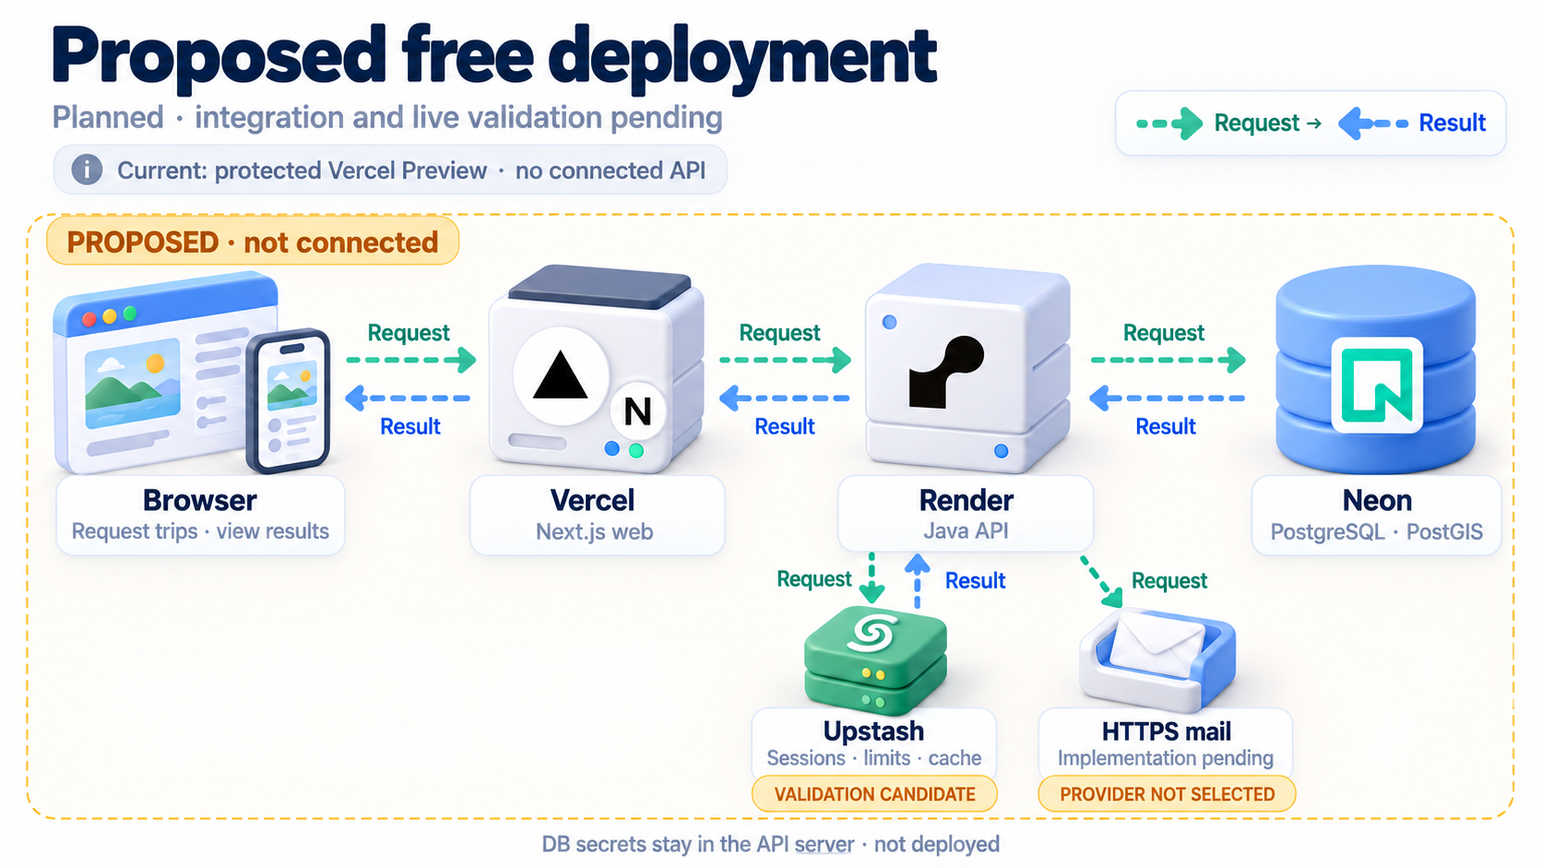
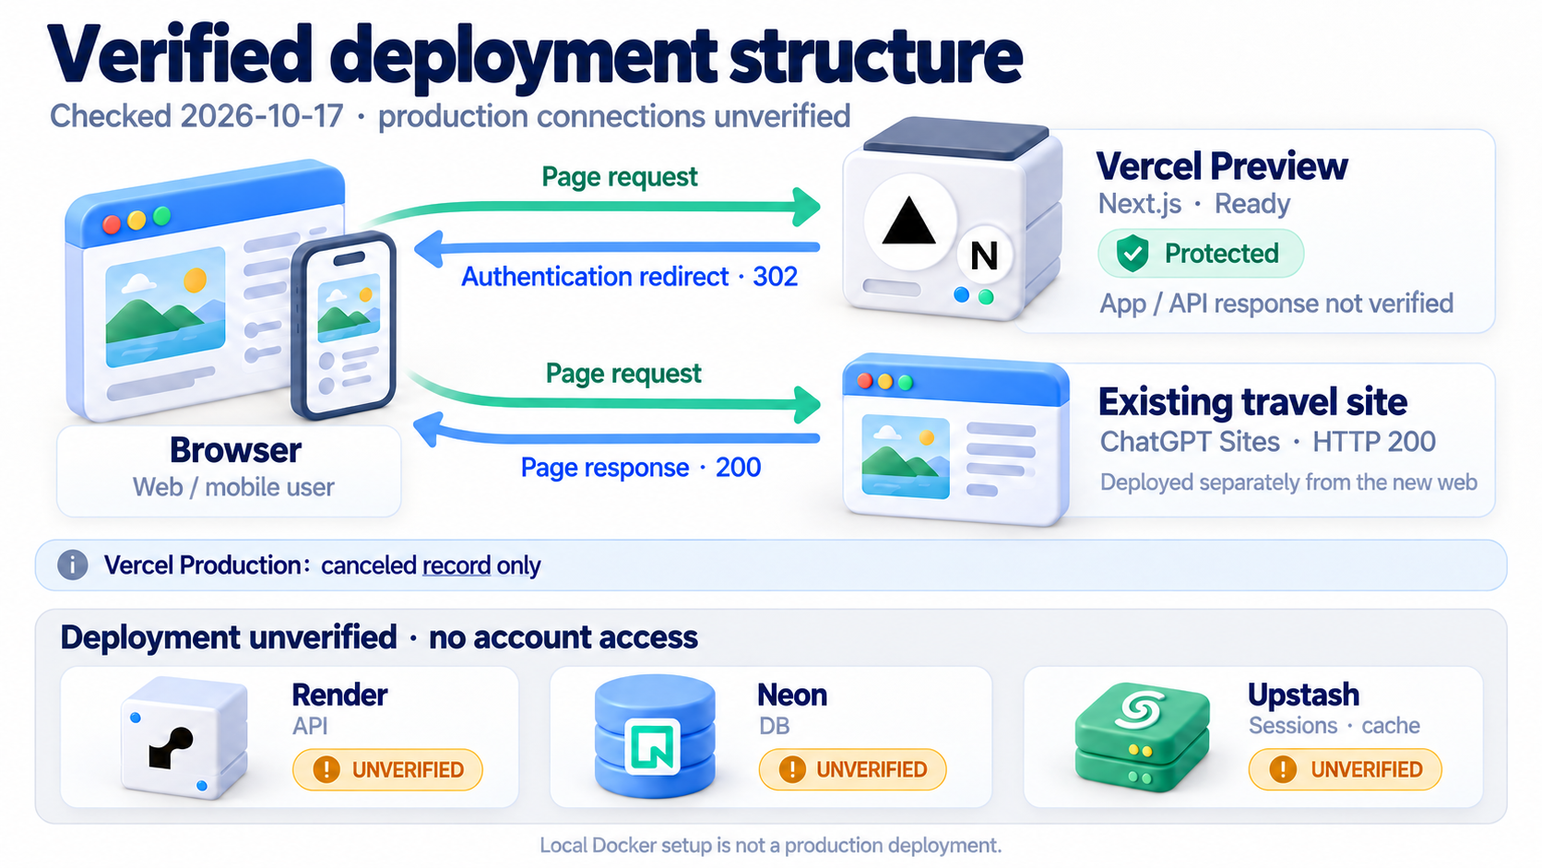
docs: replace deployment proposal with verified current inventory

diff --git a/docs/architecture/3d-diagrams.md b/docs/architecture/3d-diagrams.md
@@ -1,15 +1,15 @@
 # 3D 구성도 근거와 원본
 
-2026-10-17, develop `aca775428281b4b7d7f0c3e581e93ca4c25c599f` 기준. PR #6은 병합됐지만 운영 배포는 아직 완료되지 않았다. 이 변경은 README용 이미지와 설명만 바꾼다.
+2026-10-17. 구현도는 develop `aca775428281b4b7d7f0c3e581e93ca4c25c599f`의 로컬 검증 범위다. 배포도는 같은 날 외부 배포 기록을 다시 조회한 [현재 현황](../verification/2026-10-17-deployment-status.md)이다. 이 변경은 이미지와 문서만 바꾼다.
 
 ## 원본 이미지와 생성 방법
 
 | 용도 | 한국어 | English |
 | --- | --- | --- |
 | 현재 구현의 핵심 흐름 | [PNG](../assets/system-architecture-3d-ko.png) | [PNG](../assets/system-architecture-3d-en.png) |
-| 배포 예정 제안 | [PNG](../assets/deployment-architecture-3d-ko.png) | [PNG](../assets/deployment-architecture-3d-en.png) |
+| 현재 확인된 배포 현황 | [PNG](../assets/deployment-architecture-3d-ko.png) | [PNG](../assets/deployment-architecture-3d-en.png) |
 
-네 장 모두 내장 `image_gen`으로 생성한 원본 래스터 PNG다. `imagegen`과 `draw-cute-3d-diagrams` 지침을 적용하고, 첫 한국어 시스템 그림을 나머지 그림의 스타일 기준으로 사용했다. [프롬프트](3d-diagram-prompts.json)에 네 장의 구체적인 입력 명세를 보존했다. CLI/API 모델 fallback이나 코드로 만든 대체 그림은 사용하지 않았다.
+네 장 모두 내장 `image_gen`으로 생성한 원본 래스터 PNG다. `imagegen`과 `draw-cute-3d-diagrams` 지침을 적용하고, 첫 한국어 시스템 그림을 시리즈의 스타일 기준으로 사용했다. 이후 배포 그림 두 장은 확인된 배포 현황으로 다시 생성하고, 새 한국어 배포 그림에 영어 그림의 구성을 맞췄다. [프롬프트](3d-diagram-prompts.json)에 네 장의 구체적인 입력 명세를 보존했다. CLI/API 모델 fallback이나 코드로 만든 대체 그림은 사용하지 않았다.
 
 공식 로고를 참고 이미지로 넣고, 로고 자체를 새 3D 마스코트로 변형하지 않도록 지정했다. 입체감은 브라우저·서버·저장소·봉투 오브젝트에 주고 마크는 식별용 배지로 배치했다. Valkey와 메일은 일반 키·봉투 오브젝트이며 새 공식 마크를 만들지 않았다. Spring Boot는 기술명으로 표기하고 API에는 Kotlin 마크를 사용했다.
 
@@ -22,13 +22,15 @@
 | API ↔ Valkey: 세션·요청 제한·날씨 캐시 | indexed Spring Session 설정, `SessionRevoker`, `RateLimiter`, `weather/internal/WeatherService.kt` |
 | 기기에 남는 초안·편집 큐 | `apps/web/src/components/edit/useEditorQueue.ts`, `StopForm.tsx`, `lib/edit/queue.ts`의 localStorage |
 | 로컬 SMTP/Mailpit, HTTPS 구현 대기 | `auth/internal/AuthMail.kt`, `MailTransport.kt`; 실제 `HttpsMailProvider` 어댑터 없음 |
-| 제안: Vercel 웹 → Render API → Neon DB | `deploy/free/render.yaml`, Dockerfile, free profile의 pooled runtime/direct Flyway·TLS 설정. Blueprint 자동 배포는 off |
-| Upstash는 검증 후보 | `deploy/free/README.md`의 native TCP/TLS와 실제 indexed session 호환성 검증 대기 |
-| 현재 보호된 API 미연결 Preview | `TRIPNOTE_UI_PREVIEW` 분기와 기존 README 배포 상태 기록. 이 작업에서 새 배포 확인·생성은 하지 않음 |
+| 브라우저 → 기존 Sites → HTTP 200 응답 | 공개 사이트 GET, 기존 Next.js Preview와 별도 URL |
+| 브라우저 → Vercel 인증 보호 → HTTP 302 | 동일 프로젝트 CLI 기록에서 Preview Ready, 실제 화면/API GET은 인증 보호 응답 |
+| Vercel Production 활성 배포 미확인 | 해당 프로젝트의 전체 2건 기록 중 Production은 Canceled 1건, Ready Production 없음 |
+| Render·Neon·Upstash 배포 여부 미확인 | 계정 조회 도구·CLI 자격증명 없음. 확인된 연결선 없이 별도 상태 목록으로 표시 |
+| 무료 구성은 검토용 | `deploy/free/render.yaml`과 README. 실제 배포나 외부 연결의 증거로 사용하지 않음 |
 
 현재 구현도는 핵심 흐름만 표시한다. 지도 타일의 브라우저 직접 호출, 날씨·유출 비밀번호 조회, Google OAuth 같은 외부 경로는 기존 본문과 코드에 남아 있으며 DB나 Next.js 내부로 옮긴 것으로 해석하지 않는다. 메일의 화살표는 이벤트 이후 발송 방향이며 수신·전달 성공을 보장하지 않는다.
 
-제안도는 배포 예정 상태를 제목·자막·점선·프레임으로 표시하고, 현재 Preview는 별도 배너로 분리한다. Upstash 검증과 HTTPS 메일 구현은 완료로 표시하지 않는다. free profile은 HTTPS provider bean이 없으면 시작을 거부한다. DB 비밀값이 브라우저로 가지 않는 표기는 설계 경계이며 실제 브라우저 번들·네트워크·운영 로그 검증은 [후속 이슈 #7](https://github.com/hyunolike/trip-planner/issues/7)의 대상이다.
+배포도는 기존 Sites와 Vercel Preview를 별개 배포로 표시한다. 실선은 확인된 두 HTTP 경로뿐이며 Preview의 역방향 선은 일정 데이터가 아니라 302 인증 이동이다. Render·Neon·Upstash에는 배포 여부 미확인 표시만 두고 연결선을 없앴다. API 미연결이라는 이전 기록은 현재 런타임 상태로 재확인하지 못했으므로 새 그림에서 단정하지 않는다. 로컬 Docker는 운영 배포가 아니다. 계정 접근 제한과 명령별 근거는 [배포 현황 기록](../verification/2026-10-17-deployment-status.md)에 남겼다.
 
 ## 공식 시스템 구성 자료
 
@@ -36,7 +38,7 @@
 
 - [Next.js 외부 URL rewrite](https://nextjs.org/docs/app/api-reference/config/next-config-js/rewrites): 같은 출처에서 외부 API로 요청을 전달하는 관계.
 - [Next.js Backend for Frontend](https://nextjs.org/docs/app/guides/backend-for-frontend): 화면의 서버 계층과 별도 데이터·API 계층 구분. 이 프로젝트의 구체적인 구현은 자체 rewrite/API 클라이언트를 기준으로 한다.
-- [Render Web Services](https://render.com/docs/web-services): HTTP 서버/Docker 앱 배포 단위. 제안도의 Java API 실행 위치에 대응한다.
+- [Render Web Services](https://render.com/docs/web-services): HTTP 서버/Docker 앱 배포 단위. 검토용 무료 배포 구성의 API 실행 위치에 대응하며 현재 배포의 증거는 아니다.
 - [Neon Java/JDBC 연결](https://neon.com/docs/guides/java), [connection pooling](https://neon.com/docs/connect/connection-pooling): API 서버의 DB 연결, pooled runtime/direct migration의 구분.
 - [Spring Session Redis 구성](https://docs.spring.io/spring-session/reference/configuration/redis.html): 세션 저장소·인덱스·이벤트가 있는 별도 상태 저장 역할.
 - [Upstash Redis 호환성](https://upstash.com/docs/redis/overall/compatibility): Redis 호환 서비스를 제안할 근거이며 실제 앱 호환 완료의 증거는 아니다.
@@ -60,10 +62,9 @@ Vercel과 Next.js 이름·로고는 Vercel 및 계열사의 상표다. Kotlin, P
 ## 검수와 이전 도식
 
 - 네 PNG를 실제로 열어 로고 식별, 한·영 텍스트, 글자 잘림·겹침, 노드 간 요청/결과 방향과 상태 표기를 확인했다.
-- 현재 구현은 실선, 연결 전 제안은 점선으로 표시하고 민트 요청·파랑 결과를 시리즈 전체에서 유지했다.
+- 구현도의 실선은 로컬 구현 흐름이다. 배포도의 실선은 관측한 HTTP 요청·응답만 표시하며 미확인 제공자에는 선이 없다. 민트 요청·파랑 응답을 유지한다.
 - PNG signature, chunk CRC, 픽셀 크기, 파일 해시와 README 상대 경로·alt·언어 링크를 검사한다. 전체 그림은 1672×941 픽셀이고 앱 코드나 운영 설정은 변경하지 않는다.
 - 이전 SVG 네 장과 `scripts/docs/render_architecture.py`는 과거 문서 근거·편집 가능한 자료로 보존한다. README에서는 새 PNG만 사용하며, 과거 검증 문서에 보존 이유를 연결했다. 이 스크립트가 현재 PNG를 재생성한다고 안내하지 않는다.
 
-검증 결과: PNG 네 장 모두 1672×941, signature/chunk CRC/IEND 검사 통과. 문서 상대 파일 경로53개,
-README alt 네 개와 언어 상호 링크, 프롬프트 JSON, `git diff --check` 통과.
+새 배포 PNG 두 장의 제목·텍스트·화살표와 미확인 상태를 육안 검수했다. 전체 PNG의 signature/chunk CRC/IEND, 문서 상대 경로, alt, 언어 상호 링크, 프롬프트 JSON과 `git diff --check` 결과는 배포 현황 기록에 정리한다.
 애플리케이션 코드·배포 설정 변경이 없어 로컬 API/웹 전체 테스트와 서버 실행은 추가하지 않았다.

diff --git a/README.md b/README.md
@@ -49,24 +49,26 @@
 
 ## 배포 상태
 
-**2026-10-17 기준으로 새 웹·API 서비스의 운영 배포는 완료되지 않았습니다.**
+**2026-10-17에 재확인한 배포 현황입니다. 기존 여행 사이트와 Vercel Preview가 확인됐고, 새 서비스의 운영 연결은 확인되지 않았습니다.**
 
-![배포 예정 3D 제안도: Vercel Next.js에서 Render API와 Neon DB로 이어지는 경로, Upstash 검증 후보와 미구현 HTTPS 메일](docs/assets/deployment-architecture-3d-ko.png)
+![현재 확인된 3D 배포 구조: 기존 Sites의 HTTP 200 응답과 보호된 Vercel Preview의 302 인증 이동, 배포 여부 미확인인 Render·Neon·Upstash](docs/assets/deployment-architecture-3d-ko.png)
 
-*배포 예정인 제안도이며 점선 연결은 아직 연결·실환경 검증 전입니다. 현재는 보호된 API 미연결 Preview만 있습니다. Upstash는 검증 후보이고 HTTPS 메일 제공자는 미선정·미구현 상태라, 제공자 구현 전 Free profile은 시작되지 않습니다.*
+*실선은 이번 조회에서 확인한 HTTP 요청과 응답만 나타냅니다. 기존 사이트와 Preview는 별도 배포입니다. Preview의 Ready 상태는 앱·API 동작 검증을 뜻하지 않으며, 확인하지 못한 서비스에는 연결선을 그리지 않았습니다. [조회 근거와 제한](docs/verification/2026-10-17-deployment-status.md)을 함께 보세요.*
 
-| 구분 | 확인된 상태 |
+| 구분 | 이번에 확인한 상태 |
 | --- | --- |
-| 기존 서비스 | [오사카·교토 Sites](https://osaka-kyoto-family-2026.hyunolike.chatgpt.site/). 기존 Vite 사이트이며 저장소와 자동 동기화·배포되지 않음 |
-| 새 웹 미리보기 | [보호된 Vercel Preview](https://trip-planner-adkdt83ne-hyunho-jangs-projects.vercel.app). `TRIPNOTE_UI_PREVIEW=1`, API 미연결 안내만 제공. 로그인·조회·편집이 가능한 서비스 배포가 아님 |
-| 준비된 제안 | Vercel Hobby 웹 + Render Free API + Neon Free DB + Upstash Free 후보. 계정 연결·리소스 생성·실제 호환성 검증·도메인 연결 전 |
-| 메일·Google | HTTPS 메일 제공자 미선정. Google 실제 로그인은 자격증명과 callback 설정 및 검증 필요 |
+| 기존 서비스 | [오사카·교토 Sites](https://osaka-kyoto-family-2026.hyunolike.chatgpt.site/) GET에 HTTP 200. 기존 Vite 사이트이며 새 Next.js 웹과 별도 배포 |
+| 새 웹 Preview | [보호된 Vercel Preview](https://trip-planner-adkdt83ne-hyunho-jangs-projects.vercel.app)의 배포 기록은 Ready. 화면과 읽기 전용 API 요청은 모두 HTTP 302로 인증 보호 응답을 반환해 현재 앱·API 연결은 확인 불가 |
+| Vercel Production | 해당 프로젝트의 배포 기록 2건 중 Production 1건은 Canceled. 활성 Ready Production 기록 없음 |
+| Render API | **배포 여부 미확인**. 계정 조회 도구·로컬 자격증명이 없어 배포 기록과 API 주소를 확인하지 못함 |
+| Neon DB / Upstash 상태 저장소 | **배포 여부 미확인**. 계정 접근 없이 생성·연결 상태를 판단하지 않음 |
+| 메일·Google | 저장소에는 실제 HTTPS 메일 어댑터가 없음. 실제 자격증명·callback과 운영 동작은 이번에 확인하지 못함 |
 
-[무료 배포 준비](deploy/free/README.md)에는 Free 한도, pooled runtime/direct Flyway 연결, TLS, 세션 호환성, 승인 후 확인할 절차가 있습니다. Render Free는 sleep/cold start와 SMTP 포트 제한이 있습니다. DB와 Redis를 포함한 readiness는 공통 3초 검사 예산을 쓰지만 실제 Render 환경의 HTTP 왕복과 외부 서비스 연결은 아직 검증하지 않았습니다.
+이전 기록의 `TRIPNOTE_UI_PREVIEW=1`과 API 미연결 안내를 현재 런타임의 재검증 결과로 사용하지 않았습니다. API·DB·캐시가 연결된 완성 배포 구조를 확정하려면 각 서비스의 읽기 전용 배포 기록과 보호된 Preview 접근이 필요합니다.
 
-[512MiB·0.1CPU 로컬 시험](docs/verification/2026-10-17-free-hosting.md)은 제한된 합성 검증입니다. 실제 Render 성능·운영 적합성이나 현재 변경 전체의 재시험 결과로 해석하지 않습니다. 별도의 [2GB 공통 메모리 검증](docs/verification/2026-10-16-local-memory.md)도 실제 OS·Caddy를 포함한 운영 판정을 대신하지 않습니다.
+[무료 배포 준비](deploy/free/README.md)와 `deploy/free/render.yaml`은 검토용 구성입니다. 현재 연결됐다는 근거가 아닙니다. 저장소의 Free profile은 HTTPS 메일을 선택하며 **승인된 제공자 구현 없이는 시작되지 않습니다**. DB와 Redis를 포함한 readiness는 공통 3초 검사 예산을 쓰지만 실제 외부 서비스 연결은 별도 확인이 필요합니다.
 
-게시 전에는 실제 HTTPS의 쿠키·CSRF·메일·여행 편집·공유 회수, 프록시 신뢰 경로와 사용자별 제한, DB 백업·복원, 관측성과 개인정보처리방침의 운영 정보를 확인해야 합니다. 프록시 CIDR은 실제 소켓 피어만 신뢰하며 광범위한 forwarded header 신뢰를 설정하지 않습니다. 운영 CI/CD와 관측성 연결은 미완료입니다.
+[512MiB·0.1CPU 로컬 시험](docs/verification/2026-10-17-free-hosting.md)과 [2GB 공통 메모리 검증](docs/verification/2026-10-16-local-memory.md)은 로컬 결과입니다. Docker 구성과 로컬 시험을 운영 배포로 표시하지 않습니다. 실제 운영 연결과 CI/CD·관측성 검증은 [후속 이슈 #7](https://github.com/hyunolike/trip-planner/issues/7)에서 추적합니다.
 
 ## 로컬 실행
 

diff --git a/README.en.md b/README.en.md
@@ -49,24 +49,26 @@ Exact versions come from [web package.json](apps/web/package.json), the [API ver
 
 ## Deployment status
 
-**As of 2026-10-17, the new connected web/API service is not deployed to production.**
+**Deployment inventory rechecked on 2026-10-17: the existing travel site and a Vercel Preview are confirmed. Production connections for the new service remain unverified.**
 
-![3D planned deployment: Vercel Next.js to Render API and Neon DB, with an Upstash validation candidate and unimplemented HTTPS mail](docs/assets/deployment-architecture-3d-en.png)
+![Verified 3D deployment inventory: the existing Sites HTTP 200 response, protected Vercel Preview authentication redirect 302, and unverified Render, Neon and Upstash deployments](docs/assets/deployment-architecture-3d-en.png)
 
-*This is a planned proposal: dashed connections await integration and live validation. The current protected Preview has no API. Upstash is a validation candidate; the HTTPS mail provider is not selected or implemented, so the Free profile cannot start until an approved adapter exists.*
+*Solid arrows show only HTTP request/response paths observed during this check. The existing site and Preview are separate deployments. Ready does not verify the Preview app or API; unverified services have no connection lines. See the [evidence and limits](docs/verification/2026-10-17-deployment-status.md).*
 
-| Item | Verified state |
+| Item | State observed in this check |
 | --- | --- |
-| Original service | [Osaka–Kyoto Sites](https://osaka-kyoto-family-2026.hyunolike.chatgpt.site/), the legacy Vite site. No automatic repository synchronization/deployment |
-| New web preview | [Protected Vercel Preview](https://trip-planner-adkdt83ne-hyunho-jangs-projects.vercel.app), with `TRIPNOTE_UI_PREVIEW=1`. It shows an API-disconnected notice; login, reading and editing are unavailable |
-| Prepared proposal | Vercel Hobby web + Render Free API + Neon Free DB + Upstash Free candidate. Account linking, resource creation, actual compatibility tests and domain setup remain pending |
-| Mail/Google | No HTTPS mail provider selected. Real Google login requires credentials, callback configuration and verification |
+| Existing service | GET to [Osaka–Kyoto Sites](https://osaka-kyoto-family-2026.hyunolike.chatgpt.site/) returned HTTP 200. The legacy Vite site is deployed separately from the new Next.js web |
+| New web Preview | The [protected Vercel Preview](https://trip-planner-adkdt83ne-hyunho-jangs-projects.vercel.app) has a Ready deployment record. Page and read-only API requests both returned HTTP 302 with an authentication protection response; current app/API connections could not be verified |
+| Vercel Production | Of the two project deployment records, the single Production record is Canceled. No active Ready Production record was returned |
+| Render API | **Deployment unverified.** No account tool or local credentials were available to read deployment records or confirm an API endpoint |
+| Neon DB / Upstash state store | **Deployment unverified.** Resource existence and connections cannot be inferred without account access |
+| Mail / Google | The repository has no real HTTPS mail provider adapter. Current credentials, callbacks and live behavior were not verified in this check |
 
-[Free deployment preparation](deploy/free/README.md) documents limits, pooled runtime/direct Flyway connections, TLS, session compatibility and checks after approval. Render Free has sleep/cold starts and SMTP port restrictions. Readiness includes DB and Redis with one shared three-second check budget; actual Render HTTP round trips and external connections remain unverified.
+Earlier records of `TRIPNOTE_UI_PREVIEW=1` and the disconnected-API notice are historical evidence, not a fresh runtime verification. Establishing a connected API/DB/cache deployment requires read-only provider records and access to the protected Preview.
 
-The [512MiB/0.1CPU local trial](docs/verification/2026-10-17-free-hosting.md) is a constrained synthetic result, not proof of Render performance, production suitability or a rerun of every current change. The separate [2GB shared-memory trial](docs/verification/2026-10-16-local-memory.md) also excludes a full production OS/Caddy assessment.
+[Free deployment preparation](deploy/free/README.md) and `deploy/free/render.yaml` are review configuration, not proof of a current connection. The repository's Free profile selects HTTPS mail and **cannot start without an approved provider implementation**. Readiness has a shared three-second budget covering DB and Redis; actual external connections still require verification.
 
-Before publication, verify HTTPS cookies/CSRF/mail/editing/share revocation, proxy trust and per-user rate limits, database backup/restore, observability and actual privacy-policy operating details. Trust only the real socket peer’s proxy CIDRs; do not broadly trust forwarded headers. Production CI/CD and observability connections remain incomplete.
+The [512MiB/0.1CPU trial](docs/verification/2026-10-17-free-hosting.md) and [2GB shared-memory trial](docs/verification/2026-10-16-local-memory.md) are local results. Docker configuration and local tests are not production deployments. Live integration, CI/CD and observability validation are tracked in [issue #7](https://github.com/hyunolike/trip-planner/issues/7).
 
 ## Local development
 

diff --git a/docs/verification/2026-10-17-deployment-status.md b/docs/verification/2026-10-17-deployment-status.md
@@ -1,0 +1,52 @@
+# 실제 배포 현황 재확인
+
+2026-10-17 11:06 UTC 기준 조회. 대상은 `hyunolike/trip-planner`와 기존 README의 공개 사이트다.
+문서 수정 요청에 따라 읽기만 했으며 계정 생성, 키 설정, 배포, DNS 변경은 하지 않았다.
+
+## 외부 기록과 응답
+
+| 조회 | 확인한 사실 | 판단 범위 |
+| --- | --- | --- |
+| Vercel 프로젝트 목록과 기존 CLI project inspect | `trip-planner-web`, `prj_HYw5ODmtOB93vbGo2SzkOatyRrDz`, `hyunho-jangs-projects`, root `apps/web`, Next.js | 대상 프로젝트 일치 |
+| 같은 프로젝트 CLI deployment list | 전체 2건, pagination.next=null. Preview Ready 1건, Production Canceled 1건 | 이 프로젝트에서 활성 Ready Production 기록 없음 |
+| CLI deployment inspect | Preview ID `dpl_86gZucCn5cpnDwqrRFggfGyufywp`, target=preview, Ready | 배포 상태이지 API 정상 동작 증거는 아님 |
+| Preview 화면 `/`와 읽기 경로 `/api/trips` GET | 둘 다 HTTP 302, Vercel Authentication 보호 응답 | 앱 화면·API 응답·현재 연결 상태 확인 불가 |
+| 기존 Sites GET | HTTP 200, 제목 '오사카·교토 가족여행 2026 · 10.21–24' | 기존 페이지 접근만 확인. 새 API 연결 증거가 아님 |
+| Render / Neon / Upstash | 현재 도구 목록에 제공자 계정 조회 도구 없음. 해당 CLI·표준 자격증명 환경변수·확인한 CLI 설정도 없음 | 배포 여부 미확인. 조회 불가를 미배포로 바꾸지 않음 |
+
+Vercel 연결 도구는 프로젝트 검색에는 성공했지만 팀 단위 프로젝트/배포 읽기에 403을 반환했다.
+도구가 안내한 같은 팀·프로젝트의 기존 CLI 읽기 경로로 확인했다. 재로그인·권한 변경은 하지 않았다.
+설치된 CLI의 인증된 curl도 인증 보호 응답을 반환했다. 보호를 끄거나 우회 토큰을 새로 만들지 않았다.
+
+확인한 Preview:
+https://trip-planner-adkdt83ne-hyunho-jangs-projects.vercel.app
+
+취소된 Production 기록:
+https://trip-planner-i9zdcujrs-hyunho-jangs-projects.vercel.app
+
+기존 별도 사이트:
+https://osaka-kyoto-family-2026.hyunolike.chatgpt.site/
+
+Preview 메타데이터의 소스 기준은 `bb1201eb8857cf66d5e3cbecf3e850ad93a31e38`이고
+`sourceState=uncommitted-preview-safety`다. 현재 PR HEAD가 배포됐다고 해석하지 않는다.
+취소된 Production 기록은 실행 중인 운영 배포가 아니다.
+
+## 저장소 근거와 남은 확인
+
+- `apps/web/next.config.ts`: `TRIPNOTE_UI_PREVIEW=1`이면 API rewrite 없음. 코드 분기의 존재는 현재 배포 환경변수의 증거가 아니다.
+- `deploy/free/render.yaml`: 검토용 Blueprint, autoDeployTrigger=off. 파일 존재로 Render 리소스 생성을 추정하지 않는다.
+- Free profile은 HTTPS 메일을 선택하지만 실제 제공자 어댑터가 없어 해당 구성 그대로는 시작할 수 없다.
+- Docker 및 로컬 제약 시험은 실행 가능한 로컬 구성의 근거이며 운영 인벤토리가 아니다.
+- Render API 주소와 배포 기록, Neon/Upstash 리소스 및 API와의 연결은 읽기 권한이 있는 기록이 필요하다.
+- 보호된 Preview 앱 응답과 API 응답을 확인해야 현재 `TRIPNOTE_UI_PREVIEW` 모드와 웹→API 경로를 확정할 수 있다.
+- 실제 연결·운영 검증은 [이슈 #7](https://github.com/hyunolike/trip-planner/issues/7)에서 추적한다.
+
+## 그림 및 문서
+
+한·영 배포 그림을 기존 Sites와 보호된 Preview의 현재 상태로 다시 생성했다.
+공식 로고를 유지하고, 실선은 확인된 HTTP 경로만 표시했다.
+Render/Neon/Upstash는 연결선 없는 '배포 여부 미확인' 목록이다.
+[프롬프트](../architecture/3d-diagram-prompts.json)의 deployment-ko/en을 갱신했다.
+기존 시스템 그림은 로컬 구현의 논리 흐름으로 유지하며 클라우드 배포 확인에 사용하지 않는다.
+
+검증: 전체 PNG 네 장 각1672×941, signature/chunk CRC/IEND 통과. 문서 상대 파일 링크 54개와 alt 네 개, 한·영 상호 링크, 프롬프트 JSON 및 git diff --check 통과. 새 배포 그림 두 장은 텍스트·잘림·로고 식별·화살표·미확인 상태를 직접 검수했다. 앱 코드·배포 설정 변경은 없으며 서버 시작이나 로컬 전체 테스트 재실행은 하지 않았다. 최종 PR HEAD의 표준 CI 결과는 PR에서 확인한다.
